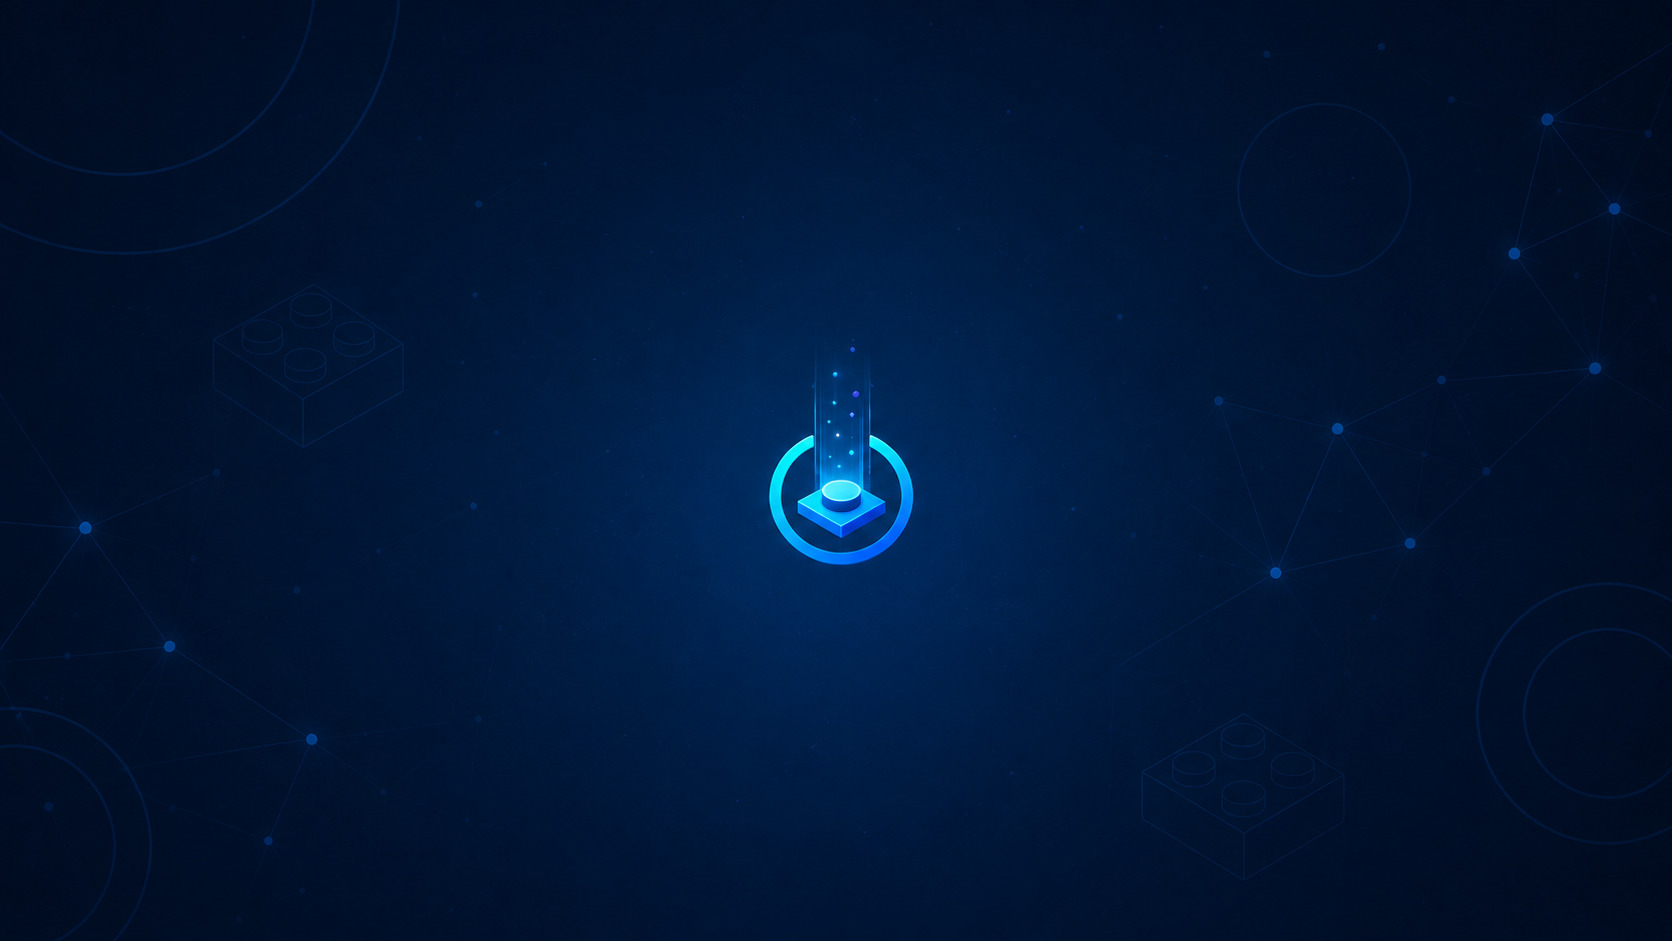
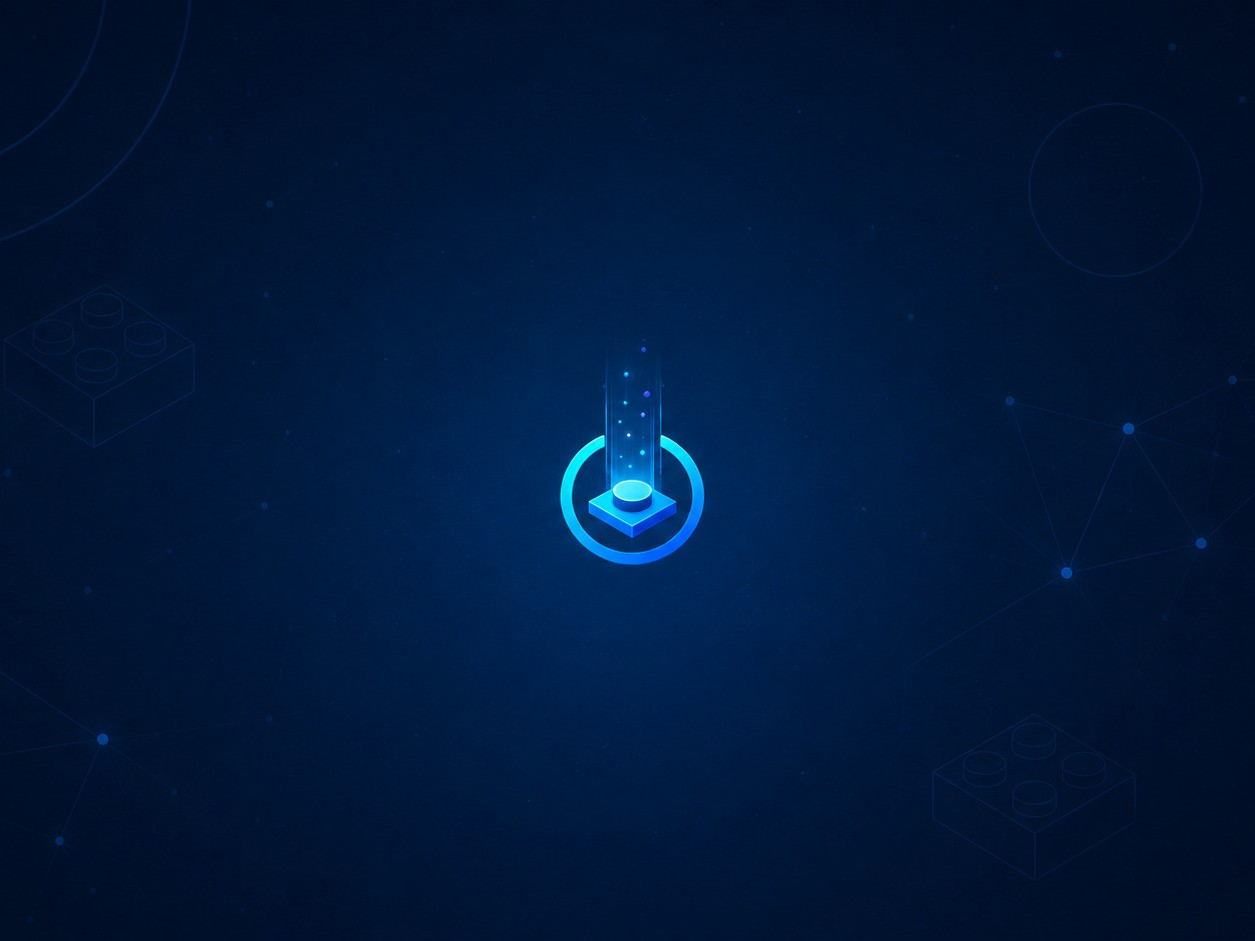
Add configurable bundled backgrounds
This change expands the bundled asset selection to include numbered background variants and exposes them through a new background setting. `generate_assets.py` now emits a list of background choices with names and resource IDs, while `main.cpp` adds a `BackgroundIndex` INI setting, cycles through backgrounds from the settings menu, and renders the selected resource instead of a single fixed background.

diff --git a/main.cpp b/main.cpp
@@ -137,7 +137,7 @@ namespace
 	};
 	constexpr size_t kPadActionCount = 3;
 
-	constexpr size_t kSettingsItemCount = 3; // 0: change shortcut, 1: A/B confirm style, 2: clear all pad slots
+	constexpr size_t kSettingsItemCount = 4; // shortcut, A/B confirm style, background, clear all pad slots
 
 	enum class ShortcutType
 	{
@@ -188,6 +188,7 @@ namespace
 		UINT shortcutKeyModifiers = 0;
 		UINT shortcutKeyCode = 0;
 		bool swapConfirmBackButtons = false;
+		size_t backgroundIndex = 0;
 		bool capturingShortcut = false;
 		// Stays false until every controller button has been seen released
 		// at least once after entering capture mode, so whatever button was
@@ -221,6 +222,7 @@ namespace
 	void HideOverlay(HWND window);
 	void BeginShortcutCapture();
 	void CancelShortcutCapture();
+	int CurrentBackgroundResourceId();
 
 	// ---------------------------------------------------------------------
 	// GDI+ plumbing
@@ -1034,11 +1036,12 @@ namespace
 		return bitmap;
 	}
 
-	// Full-window background: the starfield resource scaled to cover the
+	// Full-window background: the selected resource scaled to cover the
 	// window, with a dark overlay baked in for text legibility.
 	Gdiplus::Bitmap* RenderBackground(int width, int height)
 	{
-		const GlossKey key{GlossKind::Background, 0, kBackgroundResourceId, 0, width, height};
+		const int backgroundResourceId = CurrentBackgroundResourceId();
+		const GlossKey key{GlossKind::Background, 0, backgroundResourceId, 0, width, height};
 		const auto cached = g_glossCache.find(key);
 		if (cached != g_glossCache.end())
 			return cached->second;
@@ -1047,7 +1050,7 @@ namespace
 		Gdiplus::Graphics g(bitmap);
 		g.SetInterpolationMode(Gdiplus::InterpolationModeHighQualityBicubic);
 
-		Gdiplus::Bitmap* background = GetAssetBitmap(kBackgroundResourceId);
+		Gdiplus::Bitmap* background = GetAssetBitmap(backgroundResourceId);
 		if (background)
 		{
 			const float scale = std::max(static_cast<float>(width) / background->GetWidth(),
@@ -1294,7 +1297,9 @@ namespace
 			"[Input]\n"
 			"; SwapConfirmBackButtons = 0 uses A to enter and B to go back (RPCS3 style).\n"
 			"; SwapConfirmBackButtons = 1 uses B to enter and A to go back (Cemu style).\n"
-			"SwapConfirmBackButtons=0\n";
+			"SwapConfirmBackButtons=0\n"
+			"; BackgroundIndex selects the app background from bundled Assets/background*. images.\n"
+			"BackgroundIndex=0\n";
 	}
 
 	// ---------------------------------------------------------------------
@@ -1365,11 +1370,38 @@ namespace
 			: L"A (RPCS3)";
 	}
 
+	size_t ClampBackgroundIndex(size_t index)
+	{
+		return kBackgroundChoiceCount == 0 ? 0 : std::min(index, kBackgroundChoiceCount - 1);
+	}
+
+	const BackgroundChoice* CurrentBackgroundChoice()
+	{
+		if (kBackgroundChoiceCount == 0)
+			return nullptr;
+		g_app.backgroundIndex = ClampBackgroundIndex(g_app.backgroundIndex);
+		return &kBackgroundChoices[g_app.backgroundIndex];
+	}
+
+	int CurrentBackgroundResourceId()
+	{
+		const BackgroundChoice* choice = CurrentBackgroundChoice();
+		return choice ? choice->resourceId : kBackgroundResourceId;
+	}
+
+	std::wstring DescribeBackgroundChoice()
+	{
+		const BackgroundChoice* choice = CurrentBackgroundChoice();
+		return choice ? choice->name : L"(none)";
+	}
+
 	void SaveInputSettingsToIni()
 	{
 		const auto iniPath = GetExecutableDirectory() / L"LegoToypad.ini";
 		WritePrivateProfileStringW(L"Input", L"SwapConfirmBackButtons",
 			g_app.swapConfirmBackButtons ? L"1" : L"0", iniPath.c_str());
+		WritePrivateProfileStringW(L"Input", L"BackgroundIndex",
+			std::to_wstring(ClampBackgroundIndex(g_app.backgroundIndex)).c_str(), iniPath.c_str());
 	}
 
 	void LoadInputSettingsFromIni()
@@ -1377,6 +1409,8 @@ namespace
 		const auto iniPath = GetExecutableDirectory() / L"LegoToypad.ini";
 		g_app.swapConfirmBackButtons =
 			GetPrivateProfileIntW(L"Input", L"SwapConfirmBackButtons", 0, iniPath.c_str()) != 0;
+		g_app.backgroundIndex = ClampBackgroundIndex(static_cast<size_t>(
+			GetPrivateProfileIntW(L"Input", L"BackgroundIndex", 0, iniPath.c_str())));
 	}
 
 	void ToggleConfirmButtonMode()
@@ -1384,6 +1418,18 @@ namespace
 		g_app.swapConfirmBackButtons = !g_app.swapConfirmBackButtons;
 		SaveInputSettingsToIni();
 		g_app.status = L"Confirm button: " + DescribeConfirmButtonMode();
+	}
+
+	void CycleBackgroundChoice()
+	{
+		if (kBackgroundChoiceCount <= 1)
+		{
+			g_app.status = L"No extra backgrounds are bundled in Assets.";
+			return;
+		}
+		g_app.backgroundIndex = (g_app.backgroundIndex + 1) % kBackgroundChoiceCount;
+		SaveInputSettingsToIni();
+		g_app.status = L"Background: " + DescribeBackgroundChoice();
 	}
 
 	void SaveShortcutToIni()
@@ -2097,6 +2143,8 @@ namespace
 			else if (g_app.settingsIndex == 1)
 				ToggleConfirmButtonMode();
 			else if (g_app.settingsIndex == 2)
+				CycleBackgroundChoice();
+			else if (g_app.settingsIndex == 3)
 				ClearAllPads();
 			break;
 		}
@@ -3009,6 +3057,7 @@ case Screen::RosterList:
 			const std::array<std::wstring, kSettingsItemCount> rows = {
 				L"Toggle shortcut: " + DescribeShortcut(),
 				L"Confirm button: " + DescribeConfirmButtonMode(),
+				L"Background: " + DescribeBackgroundChoice(),
 				L"Clear all pad",
 			};
 			for (size_t index = 0; index < rows.size(); ++index)
@@ -3530,7 +3579,8 @@ int WINAPI wWinMain(HINSTANCE instance, HINSTANCE, PWSTR, int)
 	g_app.status = std::to_wstring(embeddedTags) +
 		L" tags embedded. Listener port: " + std::to_wstring(g_app.port) +
 		L" | Toggle: " + DescribeShortcut() +
-		L" | Confirm: " + DescribeConfirmButtonMode();
+		L" | Confirm: " + DescribeConfirmButtonMode() +
+		L" | Background: " + DescribeBackgroundChoice();
 
 	g_inputOwnershipEvent = CreateEventW(nullptr, TRUE, FALSE, kLegoToypadInputEvent);
 

diff --git a/generate_assets.py b/generate_assets.py
@@ -328,16 +328,42 @@ def generate(root: Path, out_dir: Path) -> int:
 
     wordmark = pick_asset({"lego_toypad_wordmark", "wordmark"}, "wordmark", "wordmark")
     background = pick_asset({"background"}, "background", "background")
+
+    def background_sort_key(path):
+        stem = path.stem.casefold()
+        if stem == "background":
+            return (0, 0, path.name.casefold())
+        match = re.match(r"^background_(\d+)$", stem)
+        if match:
+            return (1, int(match.group(1)), path.name.casefold())
+        return (2, 0, path.name.casefold())
+
+    numbered_backgrounds = [
+        p for p in assets_files
+        if re.match(r"^background_(\d+)$", p.stem.casefold())
+    ]
+    background_choices = []
+    if background:
+        background_choices.append(("Default", background, "ASSET_BACKGROUND"))
+    for candidate in sorted(numbered_backgrounds, key=background_sort_key):
+        number = re.match(r"^background_(\d+)$", candidate.stem.casefold()).group(1)
+        background_choices.append(("Background %s" % number, candidate,
+                                   "ASSET_BACKGROUND_%s" % sanitize(number)))
+
     app_icon = pick_asset({"legotoypad_logo", "app_icon", "app_logo", "appicon"},
                           "logo", "app icon")
 
     wordmark_sym = symbols.allocate("ASSET_WORDMARK", wordmark) if wordmark else None
-    background_sym = symbols.allocate("ASSET_BACKGROUND", background) if background else None
+    background_choice_syms = [
+        {"label": label, "symbol": symbols.allocate(symbol_name, path)}
+        for label, path, symbol_name in background_choices
+    ]
+    background_sym = background_choice_syms[0]["symbol"] if background_choice_syms else None
     icon_sym = symbols.allocate("ASSET_APPICON", app_icon) if app_icon else None
     if wordmark:
         ascii_ok([str(wordmark)], warnings)
-    if background:
-        ascii_ok([str(background)], warnings)
+    for _, path, _ in background_choices:
+        ascii_ok([str(path)], warnings)
     if app_icon:
         ascii_ok([str(app_icon)], warnings)
 
@@ -531,8 +557,16 @@ def generate(root: Path, out_dir: Path) -> int:
     header.append("    std::vector<VehicleGroup> vehicles;")
     header.append("};")
     header.append("")
+    header.append("struct BackgroundChoice")
+    header.append("{")
+    header.append("    std::wstring name;")
+    header.append("    int resourceId;")
+    header.append("};")
+    header.append("")
     header.append("extern const Franchise kFranchises[];")
     header.append("extern const size_t kFranchiseCount;")
+    header.append("extern const BackgroundChoice kBackgroundChoices[];")
+    header.append("extern const size_t kBackgroundChoiceCount;")
     header.append("extern const int kWordmarkResourceId;")
     header.append("extern const int kBackgroundResourceId;")
     header.append("extern const int kAppIconResourceId;")
@@ -578,6 +612,12 @@ def generate(root: Path, out_dir: Path) -> int:
     cpp.append("const int kMoveButtonResourceId = %s;" % (move_button_sym["name"] if move_button_sym else "0"))
     cpp.append("const int kScrollBarResourceId = %s;" % (scroll_bar_sym["name"] if scroll_bar_sym else "0"))
     cpp.append("const int kByHarrysofResourceId = %s;" % (by_harrysof_sym["name"] if by_harrysof_sym else "0"))
+    cpp.append("")
+    cpp.append("const BackgroundChoice kBackgroundChoices[] = {")
+    for item in background_choice_syms:
+        cpp.append("    { %s, %s }," % (wstr(item["label"]), item["symbol"]["name"]))
+    cpp.append("};")
+    cpp.append("const size_t kBackgroundChoiceCount = sizeof(kBackgroundChoices) / sizeof(kBackgroundChoices[0]);")
     cpp.append("")
 
     def emit_entry(entry):
